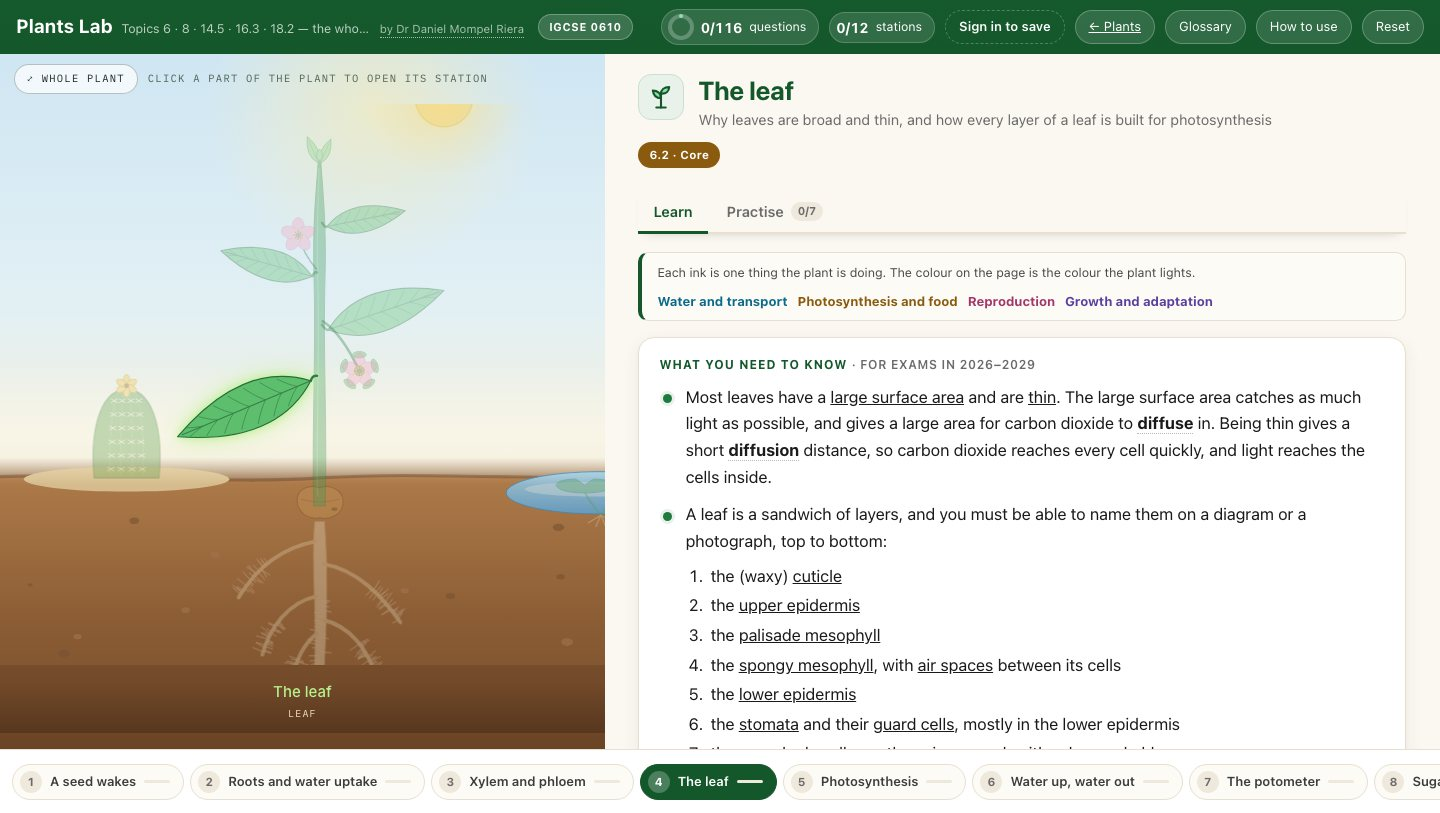
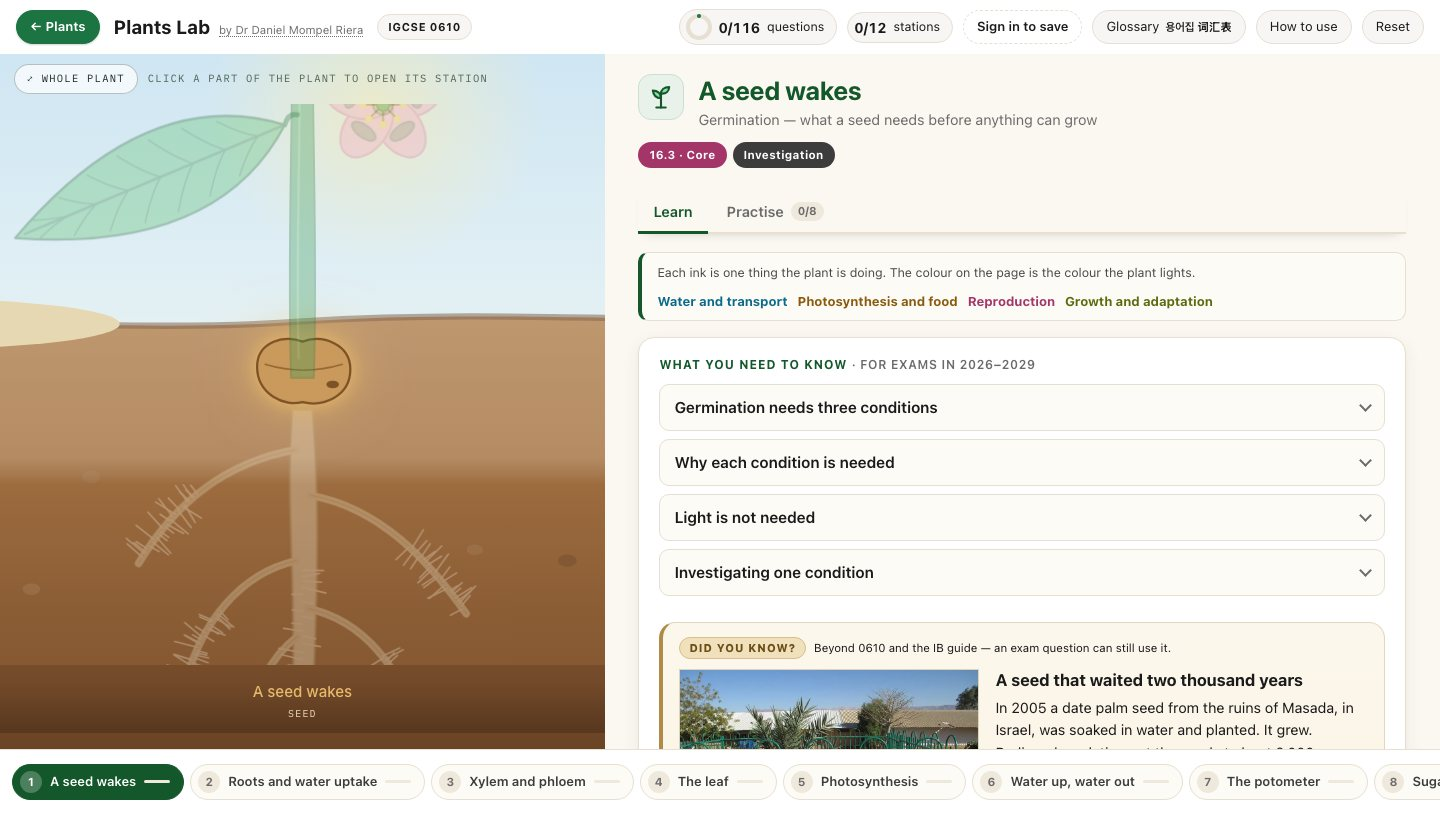
README: up to date, with a new picture of the site as it is today

diff --git a/README.md b/README.md
@@ -15,7 +15,7 @@ by **Dr Daniel Mompel Riera**
 
 </div>
 
-![The Plants Lab: the plant on the left with the leaf lit, the leaf station open on the right](docs/img/screen.jpg)
+![The Plants Lab: the plant on the left at its seed stage, the station A seed wakes open on the right](docs/img/screen.jpg)
 
 ---
 
